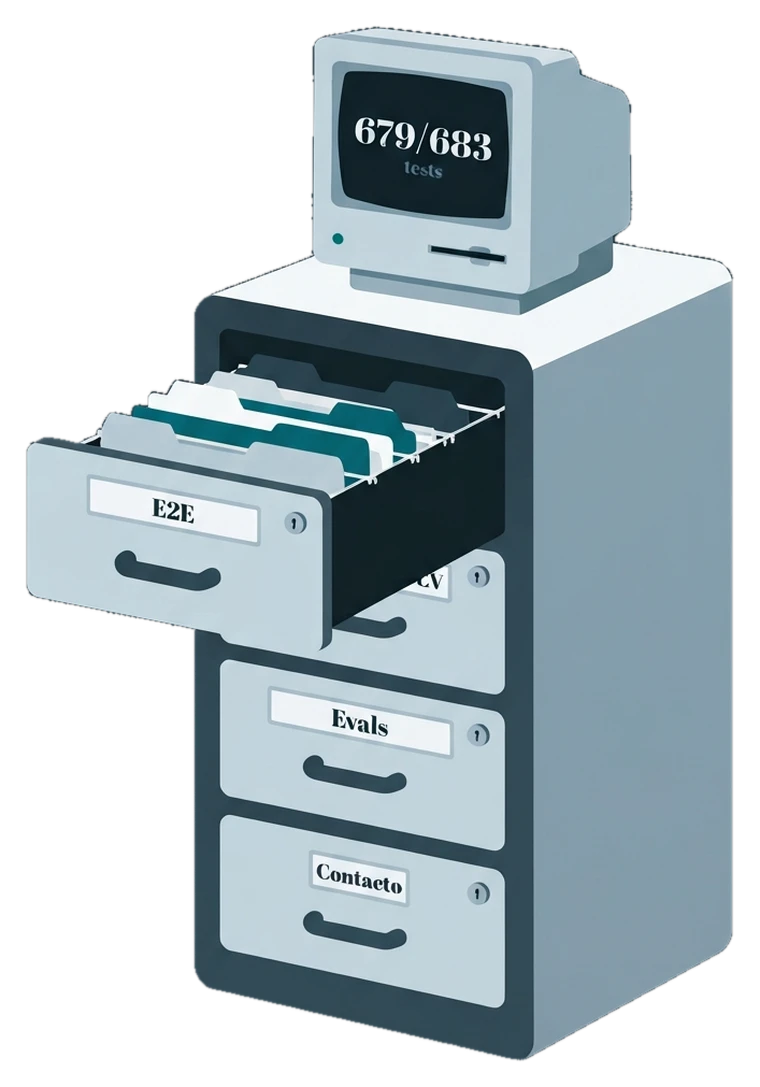
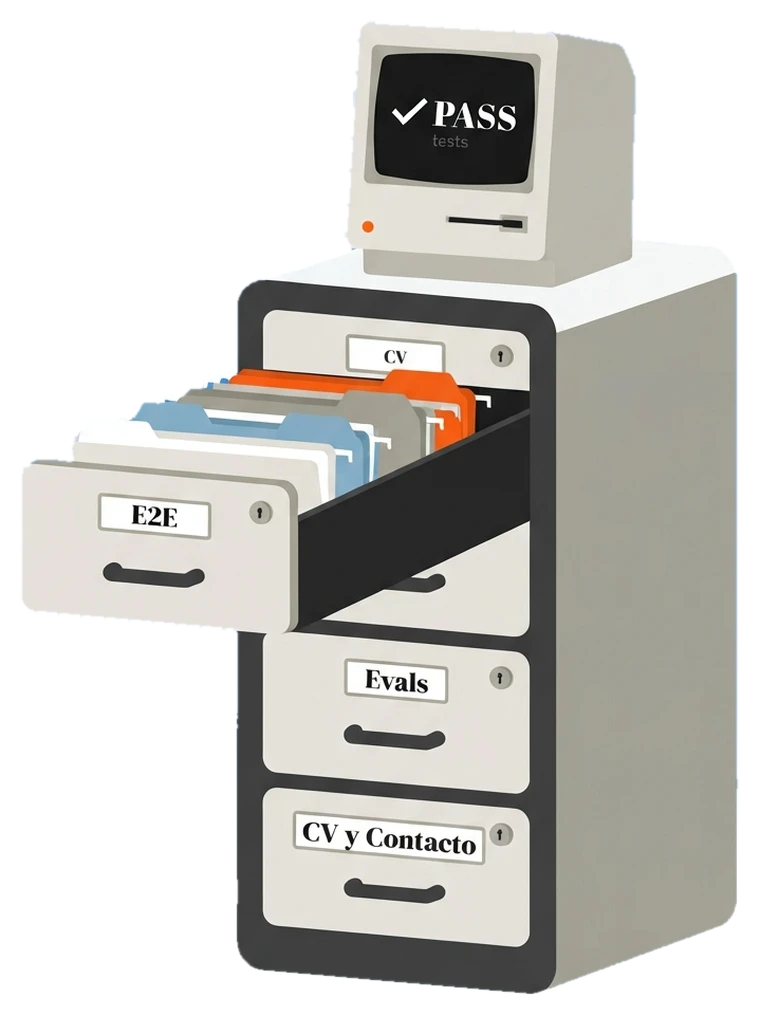
feat(web): white hero picture, AI evals in Laboratorio, footer merged into the closing
- hero: new Gemini filing cabinet on white (transparent WebP), blue stage removed
- Laboratorio folder: AI evaluation harness in band and drawer, case count from the repo
- bottom: the dark footer is gone; links and credit live in the blue closing section

diff --git a/web/src/css/home.css b/web/src/css/home.css
@@ -33,12 +33,8 @@
   .hero-sub strong { color: var(--ink); font-weight: 600; }
 
   .hero-copy .cta-row { margin-top: 28px; justify-content: flex-start; }
-  .hero-art {
-    align-self: stretch; display: flex; align-items: flex-end; justify-content: center; overflow: hidden; border-radius: 4px;
-    padding: clamp(24px, 4vw, 48px) clamp(16px, 3vw, 40px) 0;
-    background: radial-gradient(110% 62% at 50% 118%, var(--sky-glow) 0%, rgba(223, 241, 255, 0) 64%), var(--sky);
-  }
-  .hero-art img { display: block; width: auto; max-width: 100%; height: clamp(380px, 62vh, 600px); }
+  .hero-art { align-self: end; display: flex; justify-content: flex-end; }
+  .hero-art img { display: block; width: auto; max-width: 100%; height: clamp(400px, 66vh, 620px); }
   .stack { width: 100%; max-width: 1200px; margin-top: clamp(32px, 5vw, 56px); display: flex; flex-direction: column; }
   .folder { position: relative; display: block; width: 100%; color: inherit; text-decoration: none; }
   .folder:hover { text-decoration: none; }
@@ -67,7 +63,7 @@
   }
   .folder.is-open .peek, .folder:focus-visible .peek { clip-path: inset(0); visibility: visible; transition-delay: 0s; }
   .peek-text { display: flex; flex-direction: column; justify-content: center; gap: 14px; }
-  .peek-lead { font-size: var(--step-head); line-height: 1.02; letter-spacing: -0.02em; font-weight: 500; text-wrap: balance; }
+  .peek-lead { font-size: clamp(1.75rem, 3.1vw, 2.9rem); line-height: 1.05; letter-spacing: -0.02em; font-weight: 500; text-wrap: balance; }
   .peek-sub { font-size: var(--step-body); line-height: 1.4; max-width: 38ch; }
   .peek-lead, .peek-sub { opacity: 0; transform: translateY(16px); transition: opacity 0.4s ease-out, transform 0.4s ease-out; }
   .folder.is-open .peek-lead, .folder:focus-visible .peek-lead { opacity: 1; transform: none; transition-delay: 0.12s; }
@@ -132,21 +128,12 @@
   .close-mail { color: var(--ink); font-size: var(--step-lead); font-weight: 600; min-height: 52px; display: inline-flex; align-items: center; text-decoration: underline; text-underline-offset: 6px; }
   .close-mail:hover { color: var(--dark); }
 
-  .back { background: var(--dark); color: #e5e5e5; padding: clamp(40px, 6vw, 72px) max(var(--pad), calc((100% - var(--frame)) / 2)) 32px; overflow: hidden; }
-  .back-name { font-family: var(--font-display); font-weight: 500; font-size: clamp(2.5rem, 12.5vw, 12rem); line-height: 0.9; letter-spacing: -0.03em; color: #fff; white-space: nowrap; }
-  .footer-inner { margin-top: 32px; display: flex; align-items: center; justify-content: space-between; flex-wrap: wrap; gap: 12px 24px; }
-  .footer-copy { font-size: var(--step-body); color: #e5e5e5; max-width: 52ch; }
+  .close-foot { margin-top: clamp(48px, 7vw, 104px); display: flex; align-items: center; justify-content: space-between; flex-wrap: wrap; gap: 12px 24px; }
+  .footer-copy { font-size: var(--step-body); color: var(--ink); }
   .footer-links { display: flex; gap: 8px; }
-  .footer-links a { display: inline-flex; align-items: center; min-height: 44px; padding: 0 8px; color: #fff; font-size: var(--step-small); font-weight: 600; text-decoration: underline; text-underline-offset: 4px; }
-  .footer-links a:focus-visible { outline: 3px solid #fff; outline-offset: 2px; }
-  .relief { position: relative; height: 168px; margin: 0; background: var(--dark); }
-  .relief::before {
-    content: ''; position: absolute; inset: 0;
-    background-image:
-      repeating-linear-gradient(90deg, #5c5b59 0 2px, transparent 2px 9px),
-      repeating-linear-gradient(90deg, transparent 0 4px, var(--dark-deep) 4px 6px, transparent 6px 14px);
-    clip-path: polygon(0 100%, 0 72%, 12% 72%, 12% 46%, 26% 46%, 26% 22%, 40% 22%, 40% 52%, 58% 52%, 58% 8%, 74% 8%, 74% 40%, 88% 40%, 88% 64%, 100% 64%, 100% 100%);
-  }
+  .footer-links a { display: inline-flex; align-items: center; min-height: 44px; padding: 0 8px; color: var(--ink); font-size: var(--step-body); font-weight: 600; text-decoration: underline; text-underline-offset: 4px; }
+  .footer-links a:hover { color: var(--dark); }
+  .footer-links a:focus-visible { outline: 3px solid var(--ink); outline-offset: 2px; }
 
   &.rv .reveal { opacity: 0; transform: translateY(24px); transition: opacity 0.6s ease-out, transform 0.6s ease-out; }
   &.rv .reveal.in { opacity: 1; transform: none; }

diff --git a/web/src/i18n/translations.ts b/web/src/i18n/translations.ts
@@ -156,7 +156,7 @@ export const translations: Record<Lang, Translations> = {
     'stack-ts':     'Tipado estricto',
     'stack-pom':    'Abstracción mantenible de UI',
     'stack-api':    'Playwright request context',
-    'footer-copy':  'Hecho por Erika Zambrano usando Claude Code como herramienta · 2026',
+    'footer-copy':  'Hecho por Erika Zambrano · 2026',
     'home-cta': 'Hablemos →',
     'hero-proof': '{passed}/{total} tests pasan en CI →',
     'home-cv': 'Ver CV',
@@ -169,7 +169,7 @@ export const translations: Record<Lang, Translations> = {
     'proof-eval-desc': 'Casos golden, checks deterministas y un juez LLM sobre un tutor conversacional.',
     'proof-cv-title': 'CV',
     'proof-cv-desc': 'Experiencia, proyectos y herramientas, en español e inglés.',
-    'folder-pg-line': 'Tienda, carrito, checkout y login para practicar E2E y API.',
+    'folder-pg-line': 'Tienda E2E y API, más el arnés de evaluación de IA.',
     'folder-contact-line': 'Agenda una conversación o escríbeme directo.',
     'front-desc': '{failed} fallan, {skipped} omitidos. Resultados grabados de la última ejecución.',
     'front-link': 'Ver reporte completo →',
@@ -184,8 +184,8 @@ export const translations: Record<Lang, Translations> = {
     'hero-art-alt': 'Archivador de oficina de los años 80 con cajones de CV, laboratorio, contacto y resultados; el monitor de encima muestra cuántos tests pasan.',
     'peek-cv-1': 'Quality Engineer con casi 7 años en productos SaaS.',
     'peek-cv-2': 'Playwright · TypeScript · API testing · CI/CD',
-    'peek-pg-1': '{api} casos de API y {e2e} tests E2E sobre una tienda real.',
-    'peek-pg-2': 'Carrito, cupones, stock, login y un endpoint de caos.',
+    'peek-pg-1': '{api} casos de API, {e2e} E2E y {evals} casos de evaluación de IA.',
+    'peek-pg-2': 'Una tienda real con carrito y checkout, y un arnés con juez LLM para un tutor conversacional.',
     'peek-ct-1': 'Disponible para entrevistas.',
     'peek-ct-2': 'Escríbeme en español o en inglés.',
     'alt-contact': 'Página de contacto con el formulario',
@@ -297,7 +297,7 @@ export const translations: Record<Lang, Translations> = {
     'stack-ts':     'Strict-mode type safety',
     'stack-pom':    'Maintainable UI abstraction',
     'stack-api':    'Playwright request context',
-    'footer-copy':  'Built by Erika Zambrano using Claude Code as a tool · 2026',
+    'footer-copy':  'Built by Erika Zambrano · 2026',
     'home-cta': 'Let\'s talk →',
     'hero-proof': '{passed}/{total} tests passing in CI →',
     'home-cv': 'View CV',
@@ -310,7 +310,7 @@ export const translations: Record<Lang, Translations> = {
     'proof-eval-desc': 'Golden cases, deterministic checks and an LLM judge over a conversational tutor.',
     'proof-cv-title': 'CV',
     'proof-cv-desc': 'Experience, projects and tools, in Spanish and English.',
-    'folder-pg-line': 'Shop, cart, checkout and login to practice E2E and API.',
+    'folder-pg-line': 'E2E and API shop, plus the AI evaluation harness.',
     'folder-contact-line': 'Book a conversation or write to me directly.',
     'front-desc': '{failed} failed, {skipped} skipped. Recorded results from the latest run.',
     'front-link': 'See the full report →',
@@ -325,8 +325,8 @@ export const translations: Record<Lang, Translations> = {
     'hero-art-alt': '1980s office filing cabinet with drawers for CV, test lab, contact and results; the monitor on top shows how many tests pass.',
     'peek-cv-1': 'Quality Engineer with nearly 7 years on SaaS products.',
     'peek-cv-2': 'Playwright · TypeScript · API testing · CI/CD',
-    'peek-pg-1': '{api} API cases and {e2e} E2E tests on a working shop.',
-    'peek-pg-2': 'Cart, coupons, stock, login and a chaos endpoint.',
+    'peek-pg-1': '{api} API cases, {e2e} E2E and {evals} AI evaluation cases.',
+    'peek-pg-2': 'A working shop with cart and checkout, and a harness with an LLM judge for a conversational tutor.',
     'peek-ct-1': 'Open to interviews.',
     'peek-ct-2': 'Write to me in Spanish or English.',
     'alt-contact': 'Contact page with the form',

diff --git a/web/src/pages/Home.tsx b/web/src/pages/Home.tsx
@@ -5,6 +5,9 @@ import { Html } from '../components/Html';
 import { useLang } from '../context/LangContext';
 import { usePageTitle } from '../hooks/usePageTitle';
 import ciData from '../data/ci-results.json';
+
+const evalFiles = import.meta.glob<{ summary: { cases: number } }>('../data/eval-results.json', { eager: true, import: 'default' });
+const EVAL_CASES = Object.values(evalFiles)[0]?.summary.cases ?? 35;
 import '../css/home.css';
 
 const fill = (text: string, values: Record<string, number>) =>
@@ -43,7 +46,7 @@ export function Home() {
   const front = { result: `${passed}/${total}`, desc: fill(t('front-desc'), { failed, skipped }), shot: `/shots/reports-${lang}.jpg`, alt: t('alt-reports') };
   const folders = [
     { to: '/cv', result: 'ES / EN', line: t('proof-cv-desc'), vt: 'cv', tab: 'CV', peek: [t('peek-cv-1'), t('peek-cv-2')], shot: `/shots/cv-${lang}.jpg`, alt: t('alt-cv') },
-    { to: '/playground', result: `${pgApi} API + ${pgE2e} E2E`, line: t('folder-pg-line'), vt: 'playground', tab: t('pg-nav'), peek: [fill(t('peek-pg-1'), { api: pgApi, e2e: pgE2e }), t('peek-pg-2')], shot: `/shots/shop-${lang}.jpg`, alt: t('alt-shop') },
+    { to: '/playground', result: `${pgApi} API + ${pgE2e} E2E + ${EVAL_CASES} evals`, line: t('folder-pg-line'), vt: 'playground', tab: t('pg-nav'), peek: [fill(t('peek-pg-1'), { api: pgApi, e2e: pgE2e, evals: EVAL_CASES }), t('peek-pg-2')], shot: `/shots/shop-${lang}.jpg`, alt: t('alt-shop') },
     { to: '/contact', result: t('folder-contact-result'), line: t('folder-contact-line'), vt: 'contact', tab: t('nav-contact'), peek: [t('peek-ct-1'), t('peek-ct-2')], shot: `/shots/contact-${lang}.jpg`, alt: t('alt-contact') },
   ];
 
@@ -240,19 +243,15 @@ export function Home() {
           <Link className="btn-primary" to={withLang('/cv')}>{t('cta-cv')}</Link>
           <a className="close-mail" href="mailto:erikajzm@gmail.com">erikajzm@gmail.com</a>
         </div>
-      </section>
-
-      <footer className="back">
-        <p className="back-name reveal">Erika Zambrano</p>
-        <div className="footer-inner">
+        <footer className="close-foot">
           <span className="footer-copy">{t('footer-copy')}</span>
           <nav className="footer-links" aria-label="Footer links">
             <a href="https://www.linkedin.com/in/erikazambrano/" target="_blank" rel="noopener">LinkedIn</a>
             <a href="https://github.com/Erika-Zambrano" target="_blank" rel="noopener">GitHub</a>
           </nav>
-        </div>
-      </footer>
-      <div className="relief" aria-hidden="true" />
+        </footer>
+      </section>
+
     </div>
   );
 }
